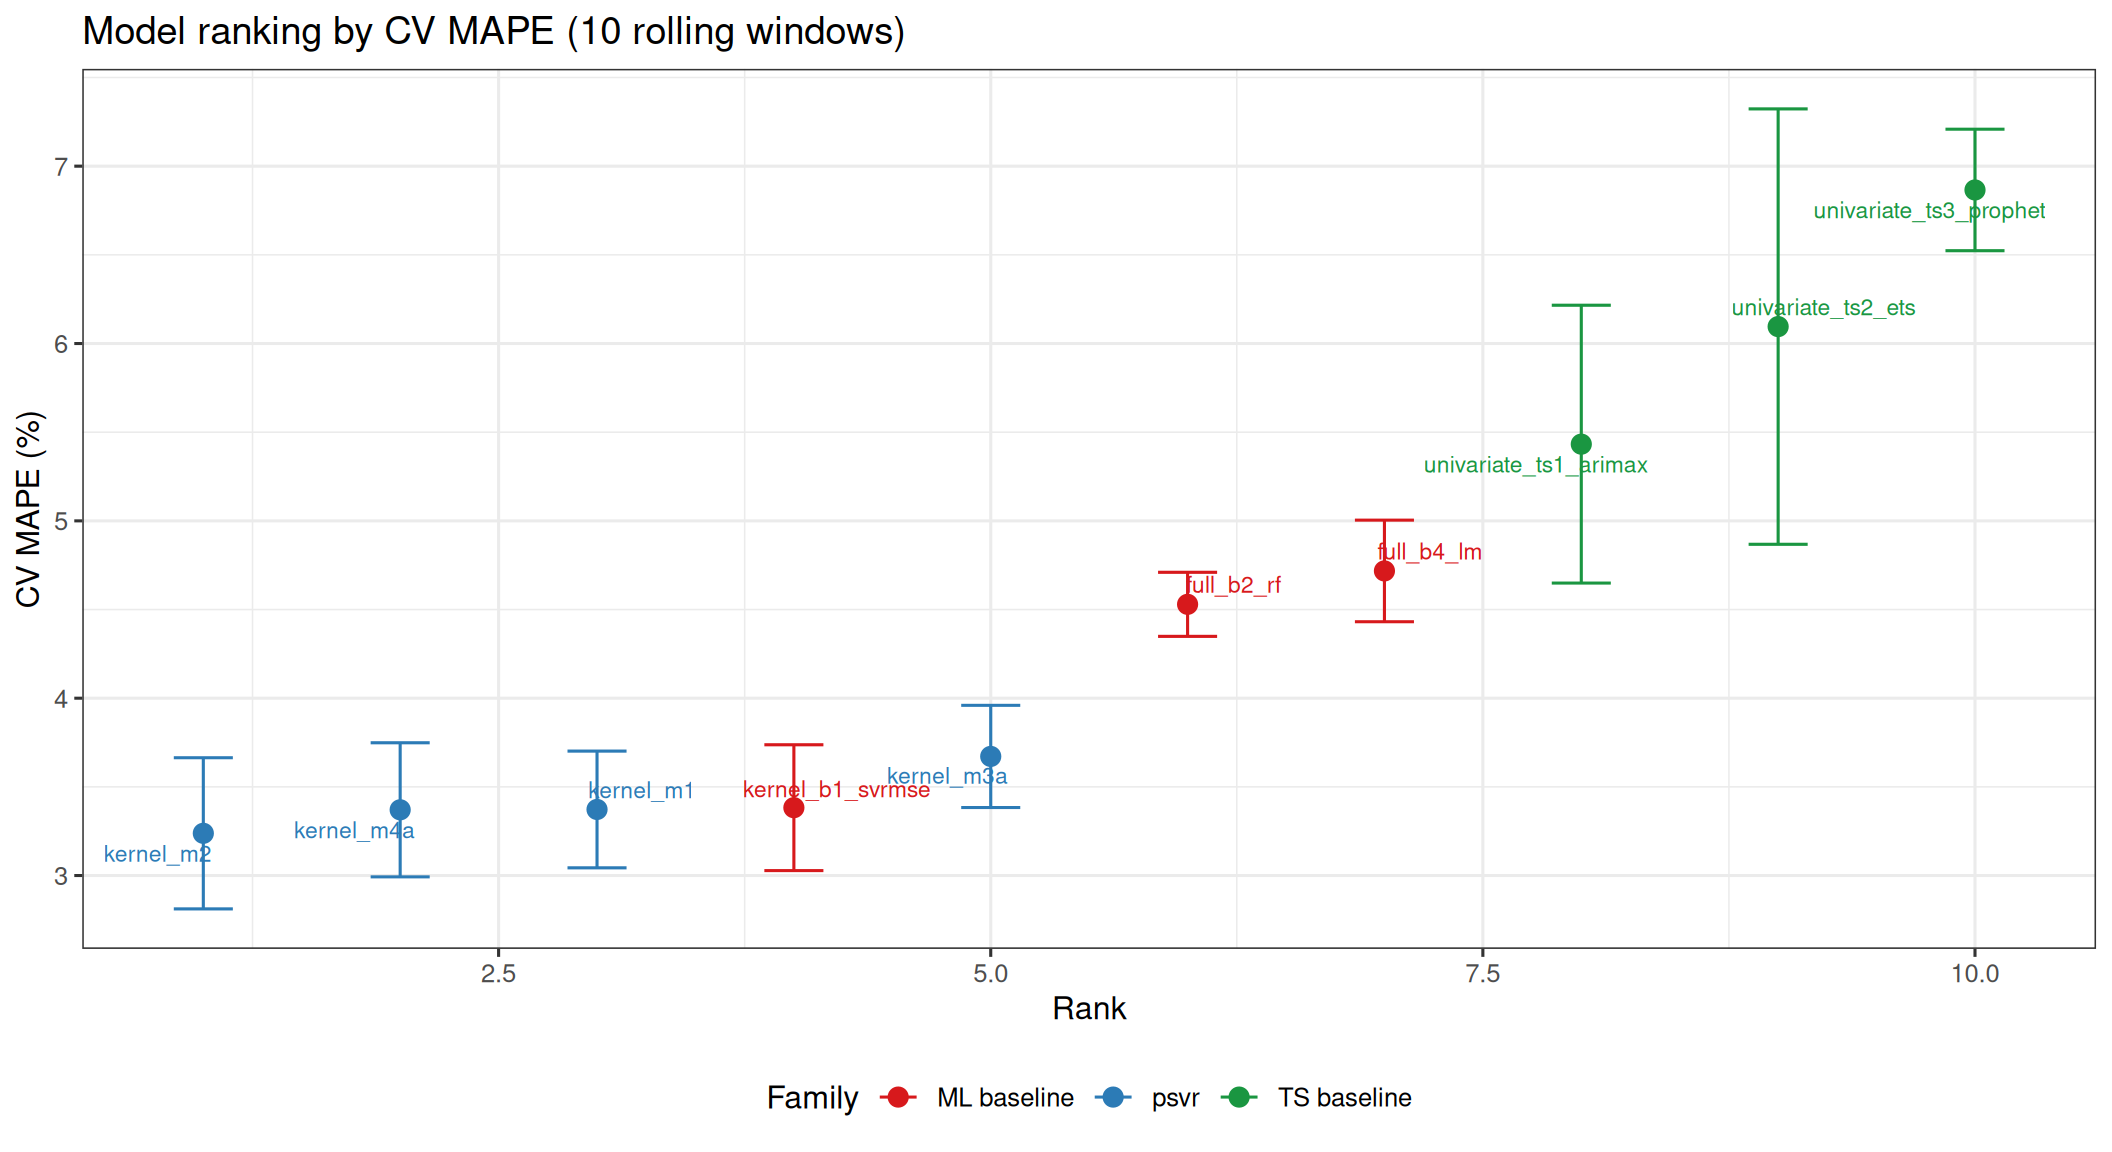
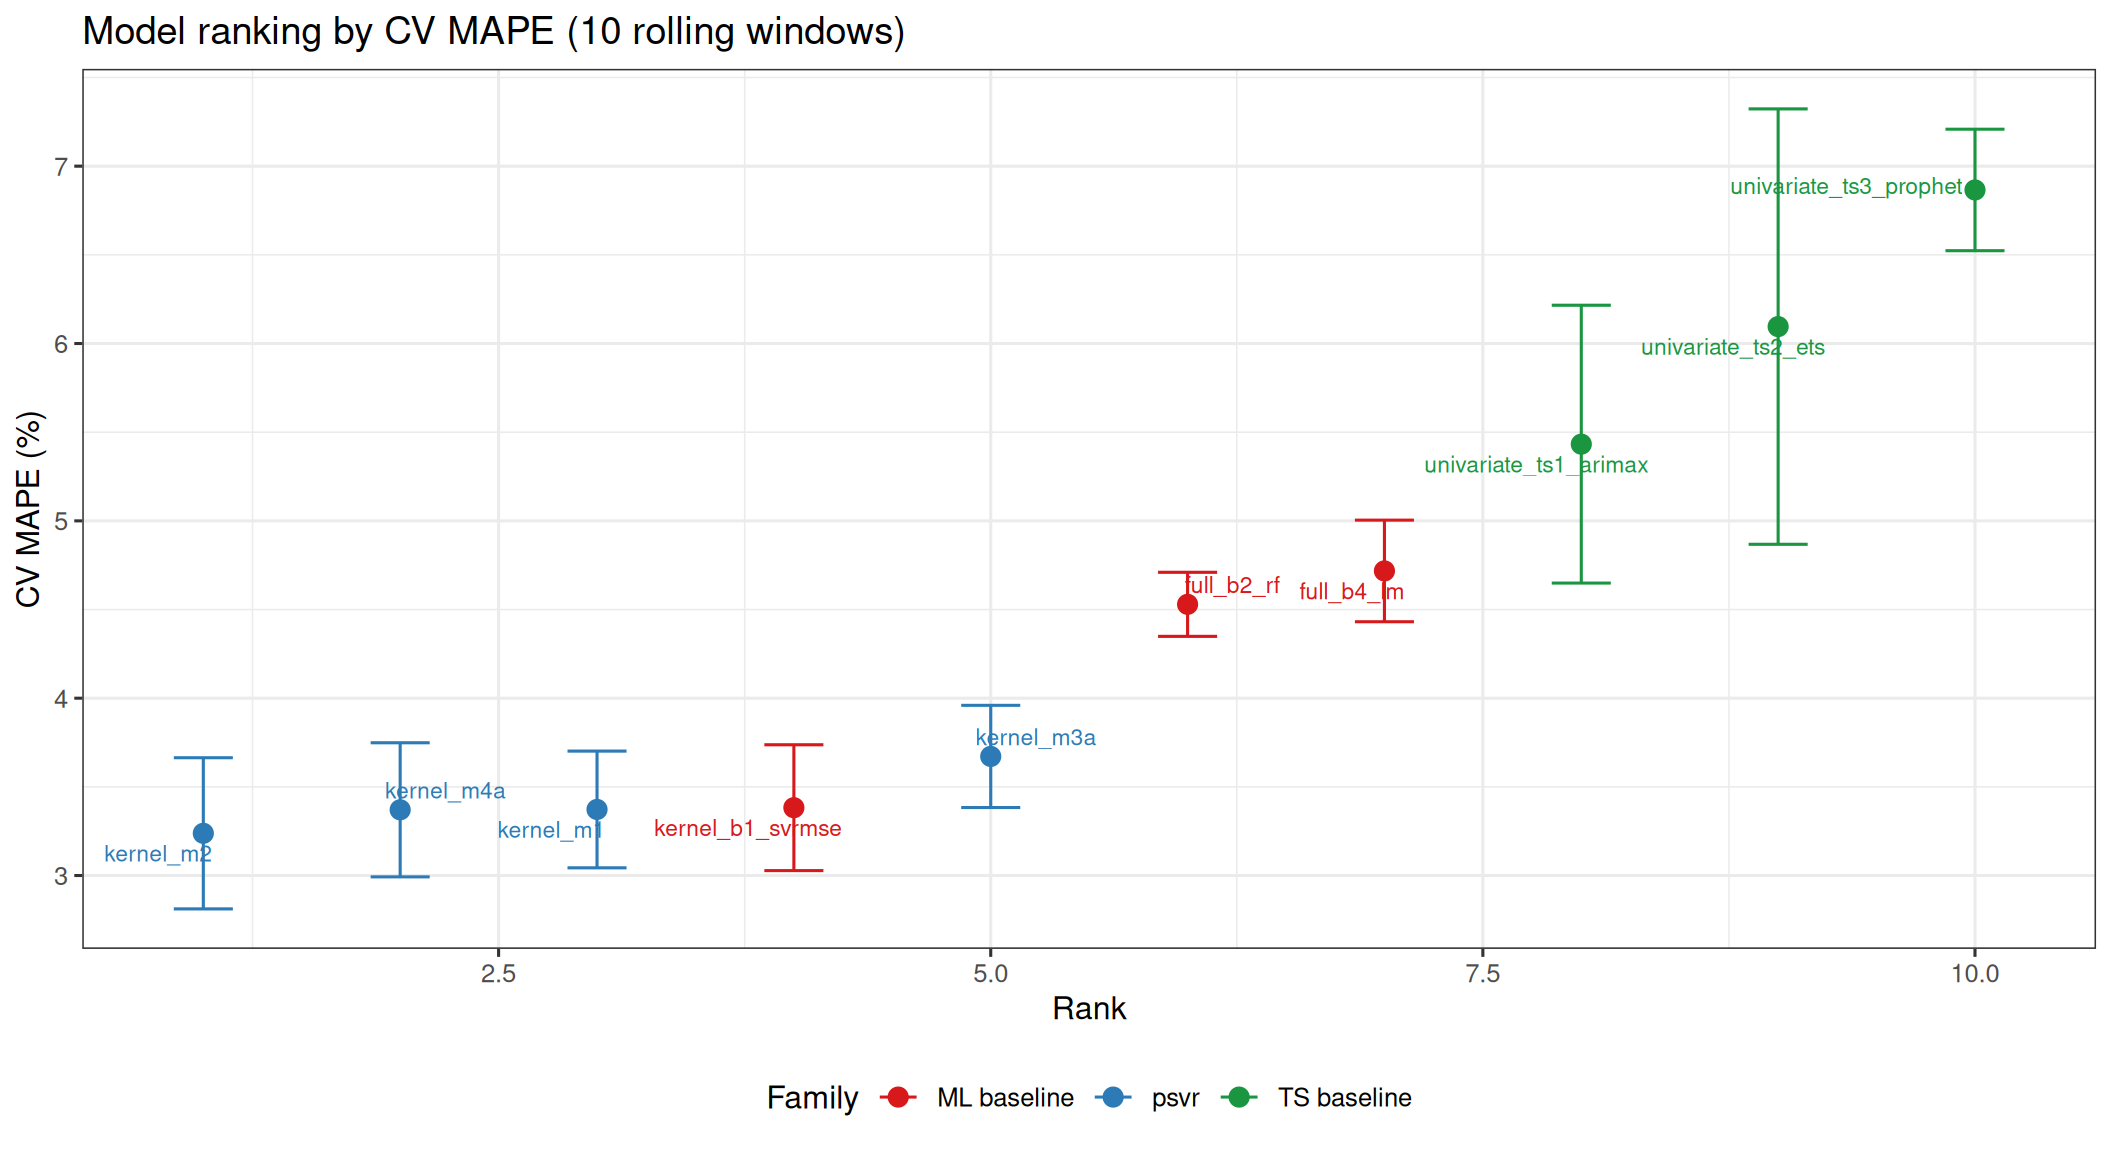
Deploying to gh-pages from @ pbenavidesh/psvr@c59f44f487979364205e6afd8826340acd6c3ef8 🚀

diff --git a/articles/electricity-forecasting.html b/articles/electricity-forecasting.html
@@ -339,7 +339,7 @@
 <code class="sourceCode R"><span><span class="fu"><a href="https://rdrr.io/r/base/cat.html" class="external-link">cat</a></span><span class="op">(</span><span class="st">"Custom rbf_sigma range (log10): ["</span>,</span>
 <span>    <span class="fu"><a href="https://rdrr.io/r/base/Round.html" class="external-link">round</a></span><span class="op">(</span><span class="va">r</span><span class="op">$</span><span class="va">lower</span>, <span class="fl">4</span><span class="op">)</span>, <span class="st">","</span>, <span class="fu"><a href="https://rdrr.io/r/base/Round.html" class="external-link">round</a></span><span class="op">(</span><span class="va">r</span><span class="op">$</span><span class="va">upper</span>, <span class="fl">4</span><span class="op">)</span>, <span class="st">"]\n"</span><span class="op">)</span></span></code></pre></div>
 </details><div class="cell-output cell-output-stdout">
-<pre><code>Custom rbf_sigma range (log10): [ -0.53 , 1.47 ]</code></pre>
+<pre><code>Custom rbf_sigma range (log10): [ -0.5255 , 1.4745 ]</code></pre>
 </div>
 </div>
 </section><section class="level2"><h2 id="model-specifications">7 Model specifications<a class="anchor" aria-label="anchor" href="#model-specifications"></a>
@@ -1458,9 +1458,9 @@
 <tr class="odd">
 <td style="text-align: left;">Random Forest</td>
 <td style="text-align: left;">ML baseline</td>
-<td style="text-align: right;">4.0720</td>
-<td style="text-align: right;">0.0595</td>
-<td style="text-align: right;">0.7992</td>
+<td style="text-align: right;">4.0344</td>
+<td style="text-align: right;">0.0600</td>
+<td style="text-align: right;">0.7954</td>
 </tr>
 <tr class="even">
 <td style="text-align: left;">Prophet + regressors</td>
@@ -1577,7 +1577,7 @@
 </tr>
 <tr class="odd">
 <td style="text-align: left;">Random Forest</td>
-<td style="text-align: right;">0.6454</td>
+<td style="text-align: right;">0.6403</td>
 </tr>
 <tr class="even">
 <td style="text-align: left;">Prophet + regressors</td>

diff --git a/articles/electricity-forecasting.md b/articles/electricity-forecasting.md
@@ -333,7 +333,7 @@ cat("Custom rbf_sigma range (log10): [",
     round(r$lower, 4), ",", round(r$upper, 4), "]\n")
 ```
 
-    Custom rbf_sigma range (log10): [ -0.53 , 1.47 ]
+    Custom rbf_sigma range (log10): [ -0.5255 , 1.4745 ]
 
 ## 7 Model specifications
 
@@ -1322,7 +1322,7 @@ test_metrics |>
 | SVR-MAPE + Sym. Kernel              | psvr        |   3.3667 | 0.0464 | 0.8526 |
 | LS-RMSPE + Sym. Kernel (MAPE opt.)  | psvr        |   3.4961 | 0.0484 | 0.8442 |
 | LS-RMSPE + Sym. Kernel (RMSPE opt.) | psvr        |   3.4961 | 0.0484 | 0.8442 |
-| Random Forest                       | ML baseline |   4.0720 | 0.0595 | 0.7992 |
+| Random Forest                       | ML baseline |   4.0344 | 0.0600 | 0.7954 |
 | Prophet + regressors                | TS baseline |   5.6621 | 0.0873 | 0.5025 |
 | ARIMAX                              | TS baseline |  10.3658 | 0.1377 | 0.3267 |
 | ETS                                 | TS baseline |  18.3294 | 0.2108 | 0.3138 |
@@ -1394,7 +1394,7 @@ mase_results |>
 | SVR-MAPE + Sym. Kernel              |       0.5236 |
 | LS-RMSPE + Sym. Kernel (MAPE opt.)  |       0.5444 |
 | LS-RMSPE + Sym. Kernel (RMSPE opt.) |       0.5444 |
-| Random Forest                       |       0.6454 |
+| Random Forest                       |       0.6403 |
 | Prophet + regressors                |       0.9190 |
 | ARIMAX                              |       1.7158 |
 | ETS                                 |       2.9869 |